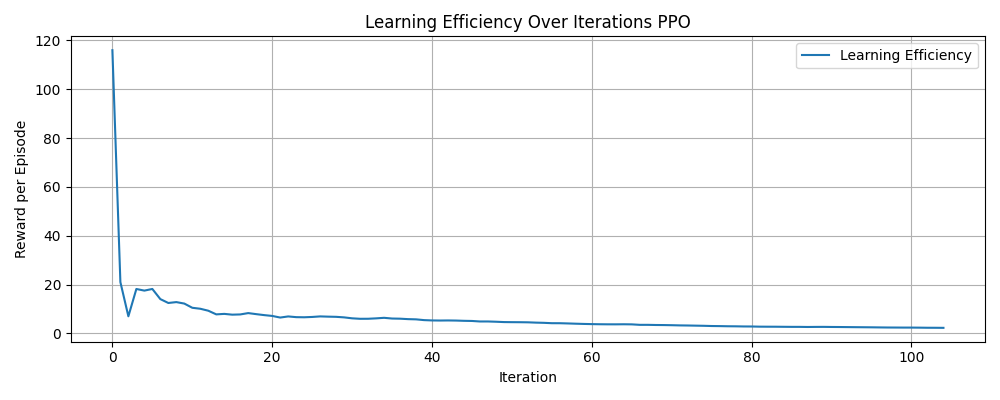
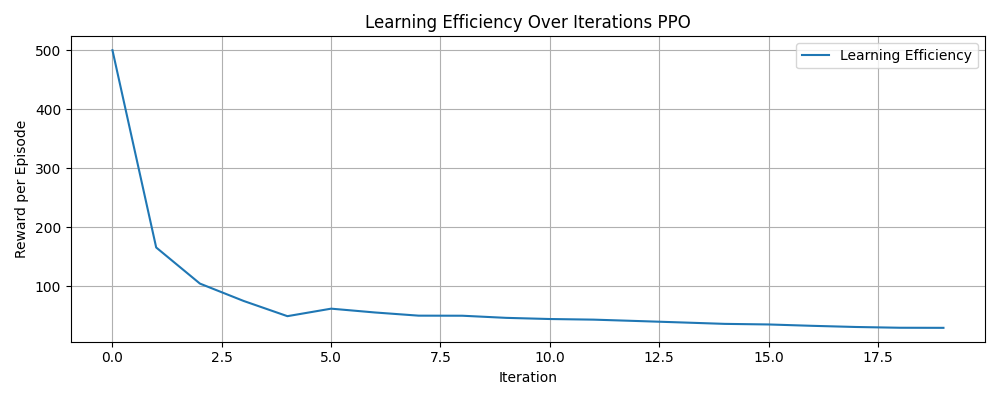
bug fixes to train_agent.py

diff --git a/final_project/train_agent.py b/final_project/train_agent.py
@@ -14,6 +14,13 @@ from ray.tune.logger import pretty_print
 import matplotlib.pyplot as plt
 import numpy as np
 
+# ---------- CLI Utilities ----------
+def restricted_int(val):
+    ivalue = int(val)
+    if ivalue < 1 or ivalue > 9:
+        raise argparse.ArgumentTypeError("Value must be between 1 and 9.")
+    return ivalue
+
 # ---------- Logging Utilities ----------
 def init_csv_log(file_path, header):
     os.makedirs(os.path.dirname(file_path), exist_ok=True)
@@ -35,16 +42,11 @@ def get_latest_checkpoint(algorithm_name):
     return sorted(candidates)[-1]
 
 # ---------- Environment Setup ----------
-def build_env_settings():
+def build_env_settings(difficulty):
     settings = EnvironmentSettings()
     settings.characters = ["Armorking", "Kuma"]
-
-    # 🔀 Auto-select action space based on algorithm
-    #if args.algo.lower() in ["dqn", "rainbow"]:
     settings.action_space = SpaceTypes.DISCRETE
-    #else:
-    #    settings.action_space = SpaceTypes.MULTI_DISCRETE
-    settings.difficulty = 1
+    settings.difficulty = difficulty
     settings.step_ratio = 6
     settings.outfits = 1
     settings.frame_shape = (240, 320, 1)
@@ -110,7 +112,7 @@ def main(args, algo_name=None):
     os.makedirs("checkpoints", exist_ok=True)
 
     # Build environment settings
-    env_settings = build_env_settings()
+    env_settings = build_env_settings(args.difficulty)
     wrap_settings = build_wrapper_settings()
     env_config = {
         "game_id": "tektagt",
@@ -150,6 +152,7 @@ def main(args, algo_name=None):
 
     moving_avg_window = args.moving_avg_window  # Or any window you like
     convergence_threshold = args.stop_reward
+    not_learning_threshold = args.stop_neg_reward
 
     print(f"\n🚀 Starting training using {args.algo.upper()}...\n")
     for i in tqdm(range(args.iters), desc="Training"):
@@ -194,7 +197,9 @@ def main(args, algo_name=None):
             if moving_avg >= convergence_threshold:
                 print(f"\n🎉 Converged! Moving average reward reached {moving_avg:.2f} at iteration {i}.")
                 break
-
+            if moving_avg <= not_learning_threshold:
+                print(f"\n🎉 The agent is not learning! Moving average reward reached {moving_avg:.2f} at iteration {i}.")
+                break
 
     cumulative_reward = np.cumsum(reward_history)
 
@@ -274,8 +279,11 @@ if __name__ == "__main__":
     parser.add_argument("--algo", type=str, default="ppo", choices=["all", "ppo", "dqn", "rainbow"],
                         help="RL algorithm to use: ppo | dqn | rainbow")
     parser.add_argument("--iters", type=int, default=10, help="Number of training iterations")
+    parser.add_argument("--difficulty", type=restricted_int, default=1, help="Environment difficulty (1-9)")
     parser.add_argument("--stop-reward", type=float, default=1000.0,
                         help="Stop if moving average reward exceeds this value")
+    parser.add_argument("--stop-neg-reward", type=float, default=-100.0,
+                        help="Stop if moving average reward falls to this value")
     parser.add_argument("--moving-avg-window", type=int, default=20,
                         help="Window size for moving average convergence check")
     parser.add_argument("--play", action="store_true", help="Play with trained agent after training")
